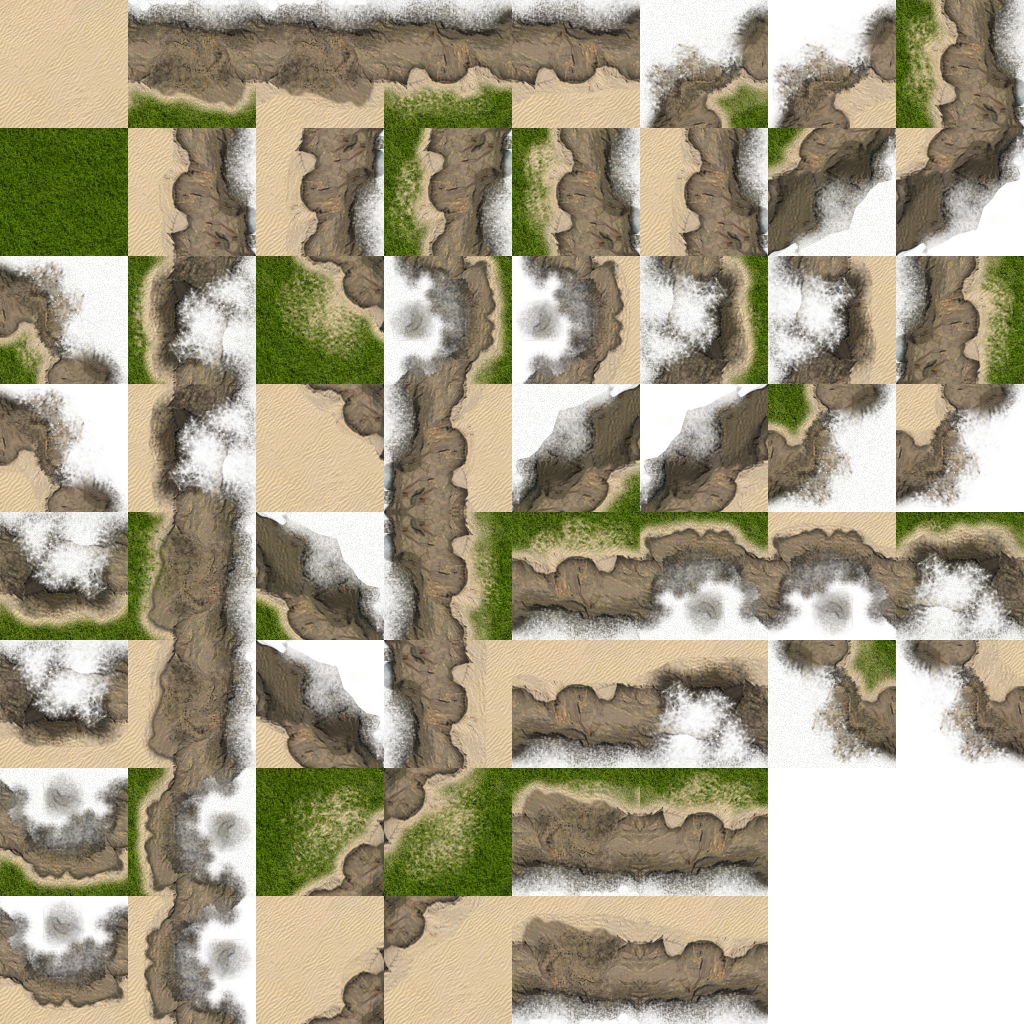
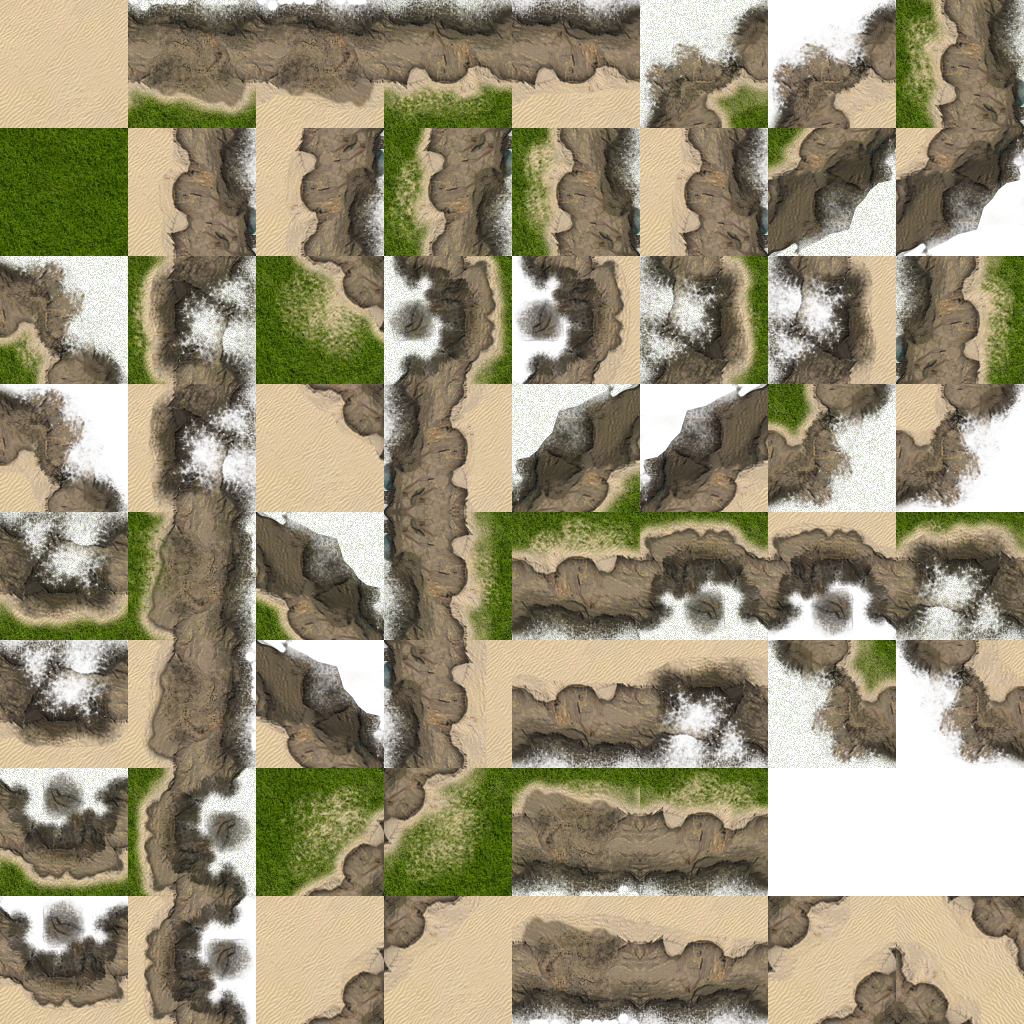
Added two more tiles and its possibilities where they can be set

diff --git a/alife/world.py b/alife/world.py
@@ -34,24 +34,24 @@ def load_map(s):
 def create_random_txt_for_map():
     possible_terrains = {}
     possible_terrains[' '] = {'right': [']', ' ', 'C', '-'], 'bottom': [' ', 'v', '-', '&'], 'left': [' ', '[', 'D', '&', '\\'], 'top': [' ', '^', 'D', 'C']}
-    possible_terrains['v'] = {'right': ['v', '&', '/'], 'bottom': ['~', '^', '+', 'L'], 'left': ['v', '-', '\\'], 'top': [' ', '^', '+', 'L', 'C']}
-    possible_terrains['^'] = {'right': ['^', 'L', 'D'], 'bottom': [' ', 'v', '-', '&'], 'left': ['^', '+', 'C'], 'top': ['~', 'v', '\\', '/']}
-    possible_terrains['['] = {'right': [']', ' ', '-', 'C'], 'bottom': ['[', '\\', 'D'], 'left': [']', '~', 'L', '/'], 'top': ['[', '&']}
-    possible_terrains[']'] = {'right': ['[', '+', '~', '\\'], 'bottom': [']', '/', 'C'], 'left': ['[', 'L', ' ', '&', 'D'], 'top': [']', 'L', '-']}
-    possible_terrains['\\'] = {'right': ['&', '/', 'v'], 'bottom': ['+', '^', '~', 'L'], 'left': ['/', 'L', '~', ']'], 'top': ['+', '&', '[']}
-    possible_terrains['/'] = {'right': ['\\', '~', '[', '+'], 'bottom': ['~', '^', 'L'], 'left': ['\\', '-', 'v'], 'top': ['-', 'L', ']', '\\']}
-    possible_terrains['+'] = {'right': ['^', 'L', 'D'], 'bottom': ['[', '\\', 'D'], 'left': ['L', ']', '~', '/'], 'top': ['~', '\\', '/', 'v'] }
-    possible_terrains['L'] = {'right': ['+', '~', '[', '\\'], 'bottom': [']', '/', 'C'], 'left': ['+', 'C', '^'], 'top': ['~', '\\', '/', 'v']}
-    possible_terrains['&'] = {'right': ['-', ' ', 'C', ']'], 'bottom': ['[', 'D', '\\'], 'left': ['-', 'v', '\\'], 'top': [' ', '^', 'D', 'C']}
-    possible_terrains['D'] = {'right': [' ','-', ']', 'C'], 'bottom': [' ', '-', 'v', ' ', '&'], 'left': ['C', '^', '+'], 'top': ['&', '[', '+']}
-    possible_terrains['C'] = {'right': ['L','^', 'D'], 'bottom': ['&', '-', 'v', ' '], 'left': ['C', ' ', '&', '['], 'top': ['-', ']', 'L']}
-    possible_terrains['-'] = {'right': ['/', 'v', '&'], 'bottom': [']', '/', 'C'], 'left': ['&', 'D', ' ', '['], 'top': ['D', ' ', 'C', '^']}
+    possible_terrains['v'] = {'right': ['v', '&', '/', 'x'], 'bottom': ['~', '^', '+', 'L'], 'left': ['v', '-', '\\', '%'], 'top': [' ', '^', '+', 'L', 'C', 'D']}
+    possible_terrains['^'] = {'right': ['^', 'L', 'D', '%'], 'bottom': [' ', 'v', '-', '&'], 'left': ['^', '+', 'C', 'x'], 'top': ['~', 'v', '\\', '/']}
+    possible_terrains['['] = {'right': [']', ' ', '-', 'C'], 'bottom': ['[', '\\', 'D', '%'], 'left': [']', '~', 'L', '/'], 'top': ['[', '&', 'x', '+']}
+    possible_terrains[']'] = {'right': ['[', '+', '~', '\\'], 'bottom': [']', '/', 'C', 'x'], 'left': ['[', 'L', ' ', '&', 'D'], 'top': [']', 'L', '-', '%']}
+    possible_terrains['\\'] = {'right': ['&', '/', 'v', 'x'], 'bottom': ['+', '^', '~', 'L'], 'left': ['/', 'L', '~', ']'], 'top': ['+', '&', '[', 'x']}
+    possible_terrains['/'] = {'right': ['\\', '~', '[', '+'], 'bottom': ['~', '^', 'L', '+'], 'left': ['\\', '-', 'v', '%'], 'top': ['-', 'L', ']', '\\', '%']}
+    possible_terrains['+'] = {'right': ['^', 'L', 'D', '%'], 'bottom': ['[', '\\', 'D', '%'], 'left': ['L', ']', '~', '/'], 'top': ['~', '\\', '/', 'v'] }
+    possible_terrains['L'] = {'right': ['+', '~', '[', '\\'], 'bottom': [']', '/', 'C', 'x'], 'left': ['+', 'C', '^', 'x'], 'top': ['~', '\\', '/', 'v']}
+    possible_terrains['&'] = {'right': ['-', ' ', 'C', ']'], 'bottom': ['[', 'D', '\\', '%'], 'left': ['-', 'v', '\\', '%'], 'top': [' ', '^', 'D', 'C']}
+    possible_terrains['D'] = {'right': [' ','-', ']', 'C'], 'bottom': [' ', '-', 'v', ' ', '&'], 'left': ['C', '^', '+', 'x'], 'top': ['&', '[', '+', 'x']}
+    possible_terrains['C'] = {'right': ['L','^', 'D', '%'], 'bottom': ['&', '-', 'v', ' '], 'left': ['D', ' ', '&', '['], 'top': ['-', ']', 'L', '%']}
+    possible_terrains['-'] = {'right': ['/', 'v', '&', 'x'], 'bottom': [']', '/', 'C', 'x'], 'left': ['&', 'D', ' ', '['], 'top': ['D', ' ', 'C', '^']}
     possible_terrains['~'] = {'right': ['~', '[', '\\', '+'], 'bottom': ['~', 'L', '^', '+'], 'left': [']', '/', 'L', '~'], 'top': ['~','v', '\\', '/']}
-    possible_terrains['ALL'] = [' ', 'v', '^', '[', ']', '\\', '/', 'L', '&', 'D', 'C', '~', '-', '+']
-    row_size = random.choice(range(10, 17, 2))
-    column_size = random.choice(range(20, 31, 2))
-    row_size = 12
-    column_size = 12
+    possible_terrains['x'] = {'right': ['^', 'L', 'D', '%'], 'bottom': ['[', '\\', 'D', '%'], 'left': ['v', '\\', '-', '%'], 'top': [']', 'L', '-', '%']}
+    possible_terrains['%'] = {'right': ['v', '/', '&', 'x'], 'bottom': [']', '/', 'C', 'x'], 'left': ['^', '+', 'C', 'x'], 'top': ['[', '+', '&', 'x']}
+    possible_terrains['ALL'] = [' ', 'v', '^', '[', ']', '\\', '/', 'L', '&', 'D', 'C', '~', '-', '+', 'x', '%']
+    row_size = 16
+    column_size = 30
     MAP = np.empty([row_size, column_size],  dtype='str')
     for row in range(0, row_size):
         for column in range(0, column_size):

diff --git a/alife/graphics.py b/alife/graphics.py
@@ -77,12 +77,18 @@ land = {
         'D' : [(3,7)],                                   # top left concave 
         'C' : [(2,3)],                                   # top right concave
         '-' : [(2,7)],                                   # bottom right concave
-        '~' : [(7,7)],                                   # water
+        '%' : [(6,7)],                                   # top left and right bottom is coast
+        'x' : [(7,7)],                                   # top right and left bottom is coast
+        '~' : [(6,6)],                                   # water
     }
 
 terr = {
         # Denotes the collision quaters of each tile given its character code (since one picture tile covers 4 game tiles)
         ' ' : array([[0,0],
+                     [0,0]]),
+        'x' : array([[0,0],
+                     [0,0]]),
+        '%' : array([[0,0],
                      [0,0]]),
         'v' : array([[0,0],
                      [1,1]]), 
@@ -107,7 +113,7 @@ terr = {
         '&' : array([[0,0],     # <-- bottom left is soft
                      [0,0]]),                       
         '-' : array([[0,0],     # <-- bottom right is soft
-                     [0,0]]),    
+                     [0,0]]),   
         '~' : array([[1,1],
                      [1,1]]),                       
     }
